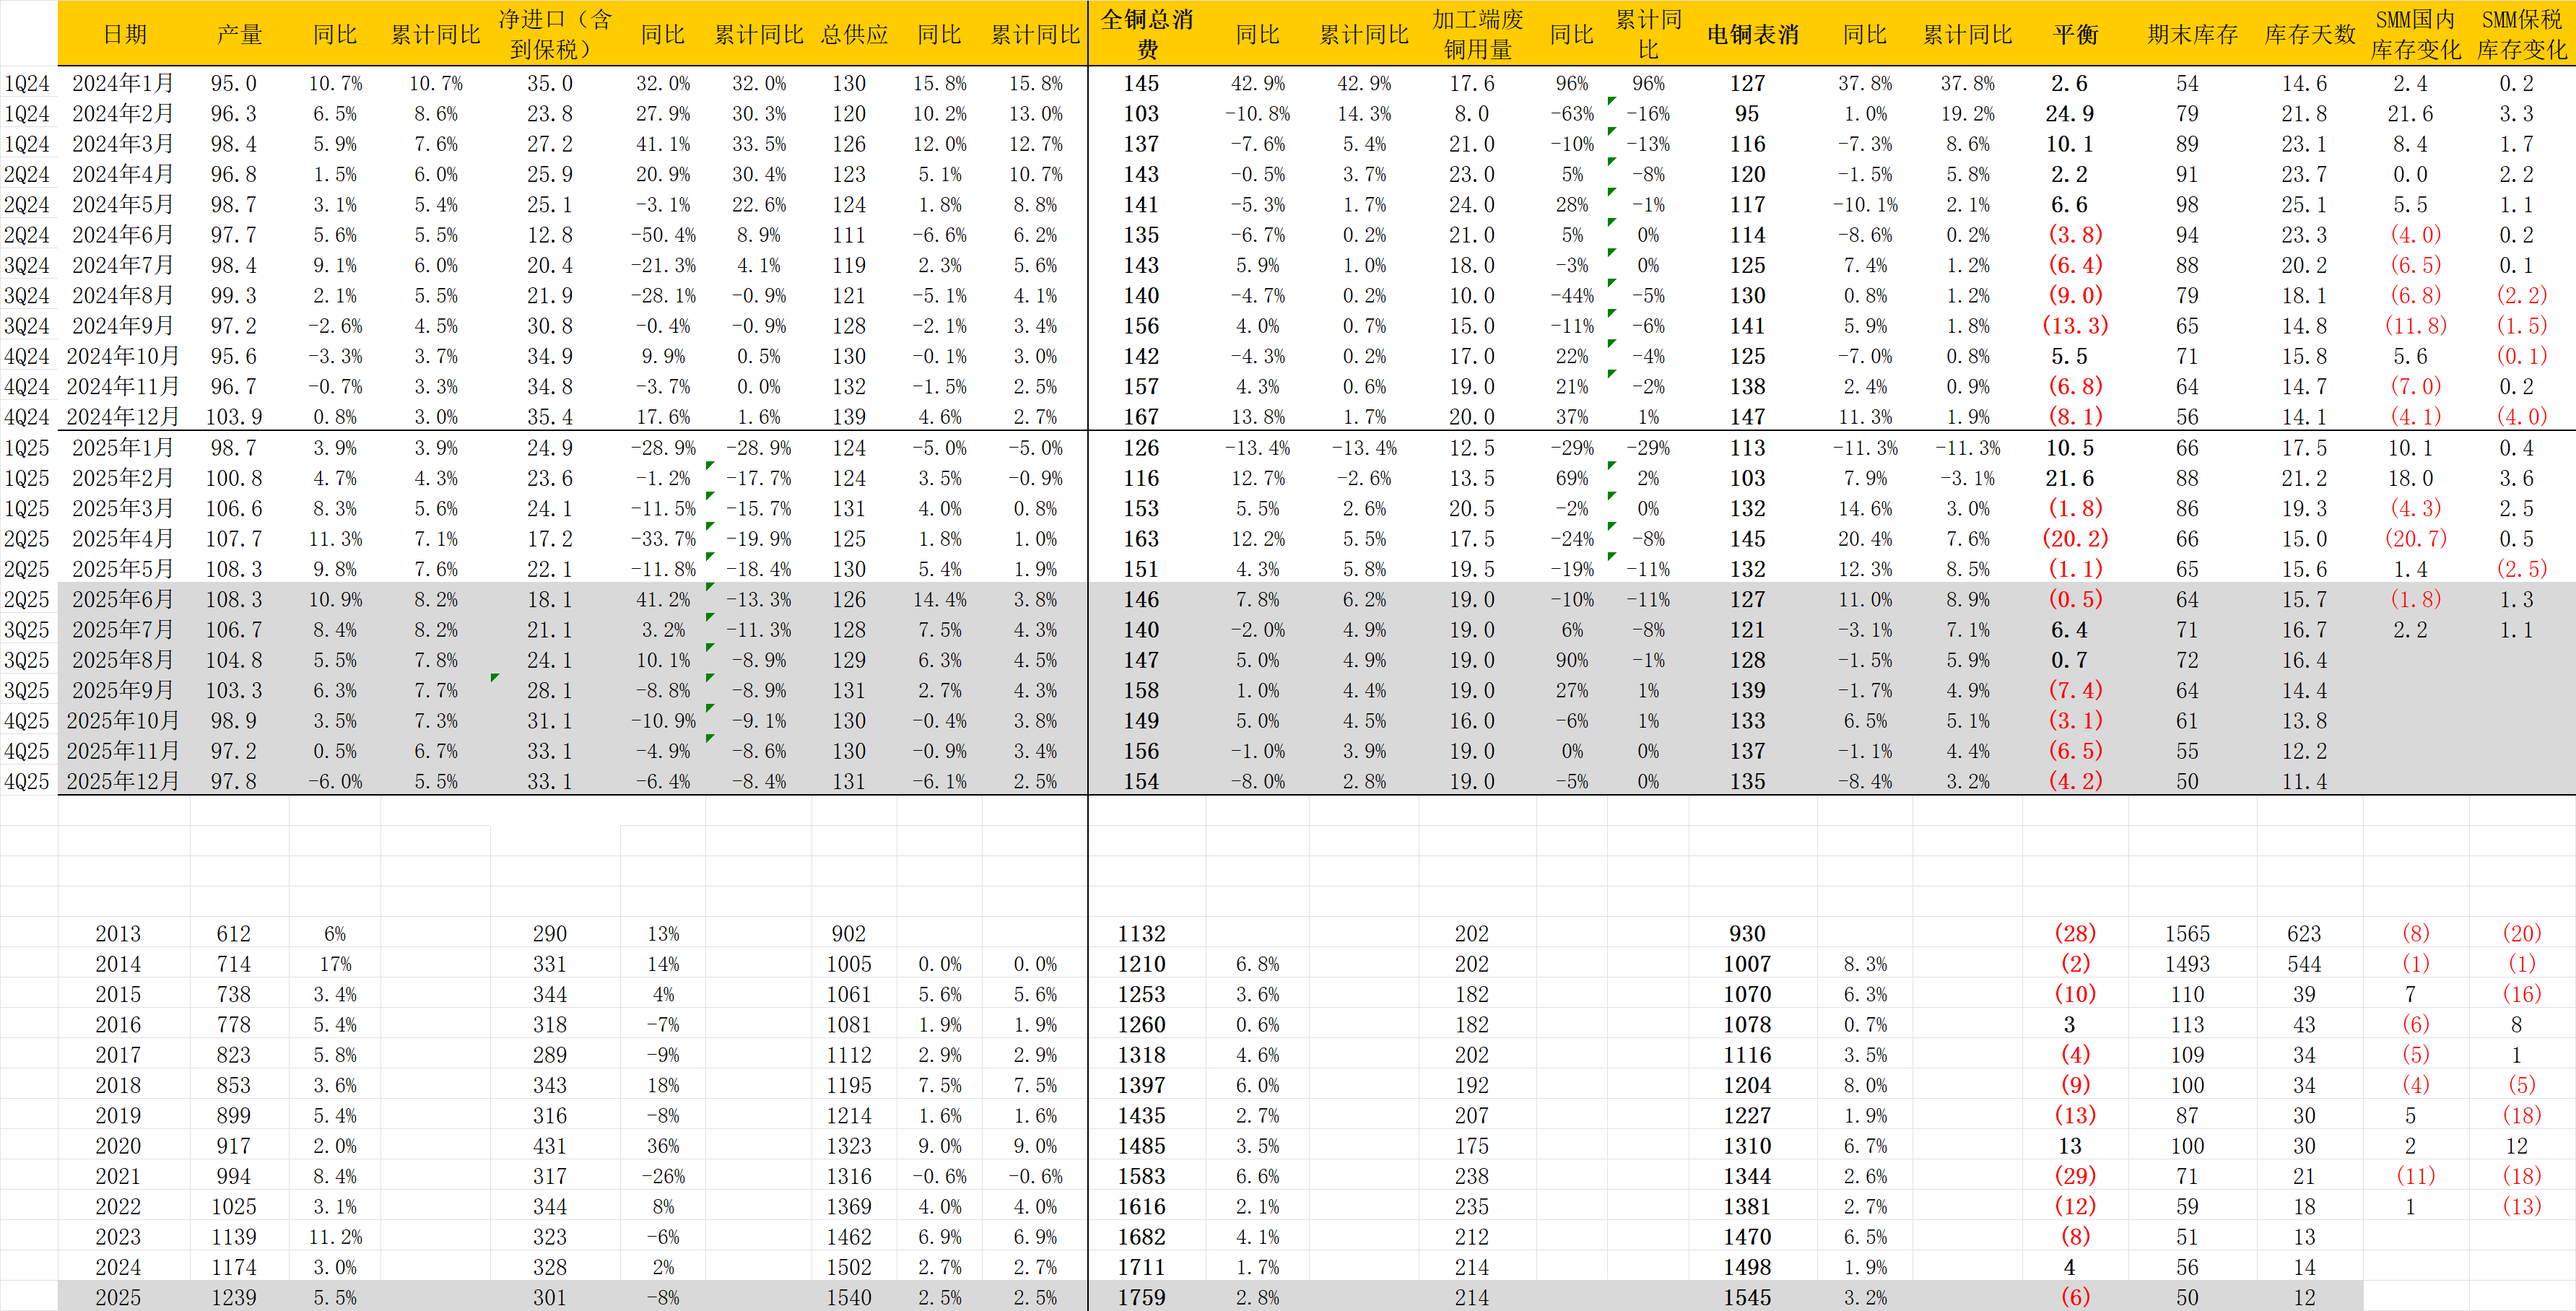
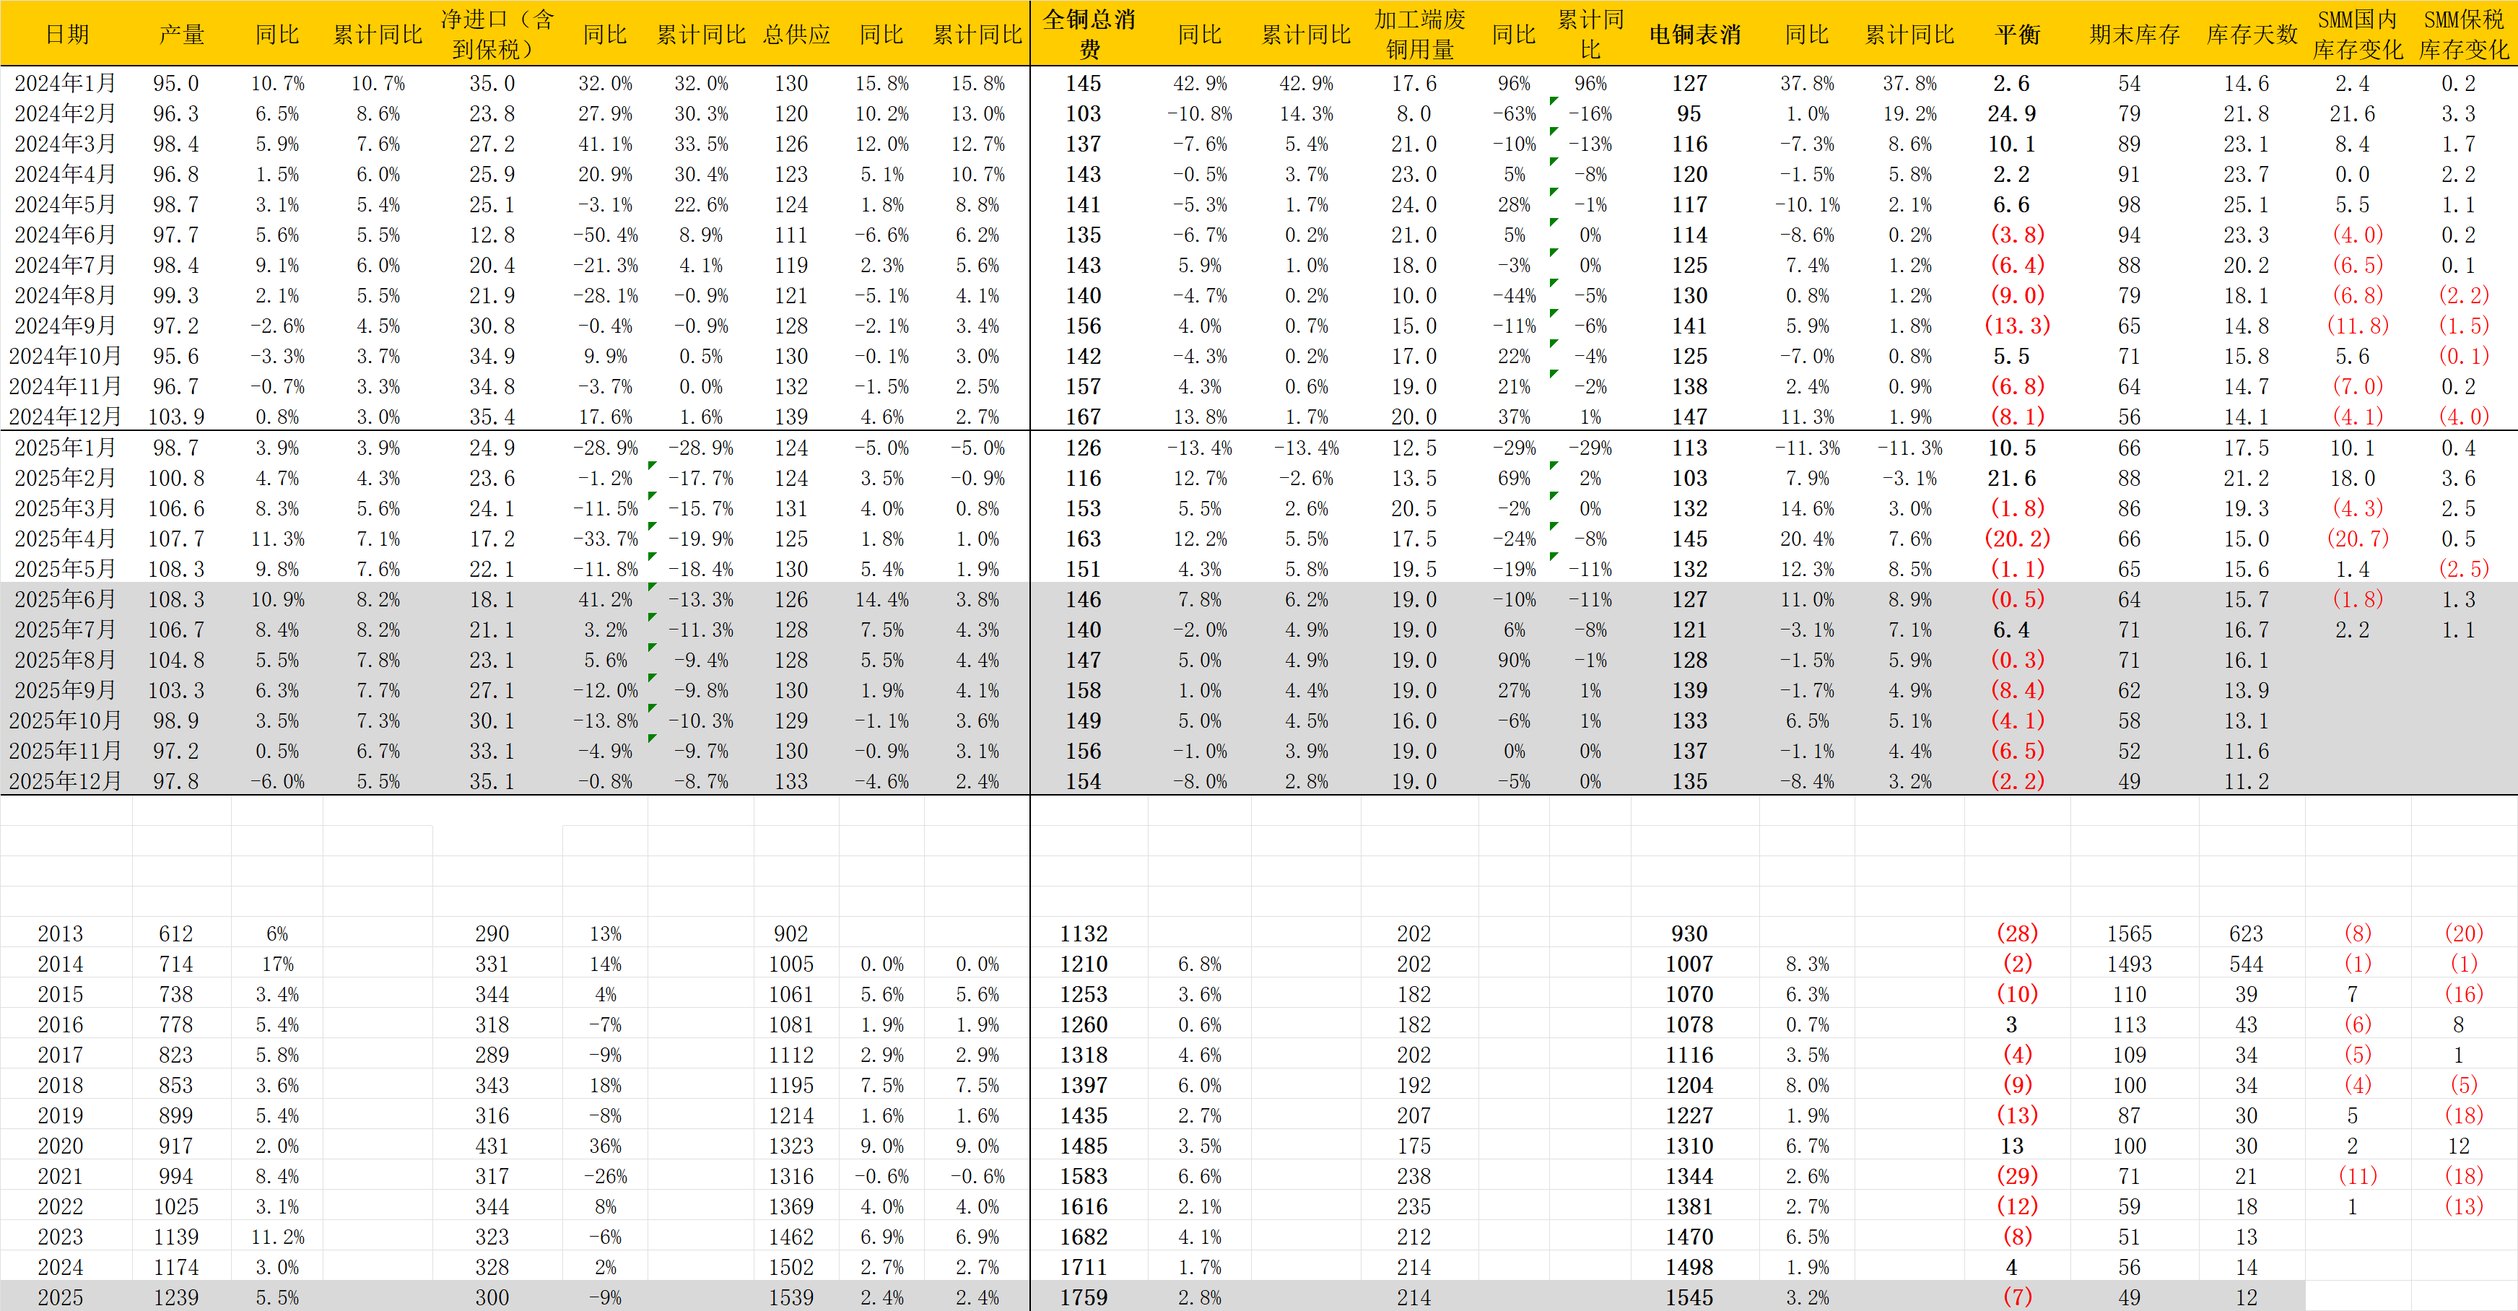
yfwu-main 2025-7-15:14:50:16

diff --git a/铜市场分析20250713.md b/铜市场分析20250713.md
@@ -36,12 +36,13 @@
 <div STYLE="page-break-after: always;"></div>
 
 铜原料角度2H中国冶炼没有增量。
+
 ![[中国铜原料平衡表.png]]
 
 非洲出口同比增速显著回落，出口口径预计今年没有增量（去年去库）
 ![[非洲铜出口跟踪.png]]
 
-全球元素平衡，但是考虑到非洲库存因素，美国价差因素以及海外降息预期，实际显形库存会比元素平衡更紧张。
+全球元素紧平衡，但是考虑到印尼发运问题（~10w），实际显形库存会比元素平衡更紧张。
 ![[全球铜平衡表.png]]
 
 国外消费平均上下半年环比持平，但是不同年份差异大。
